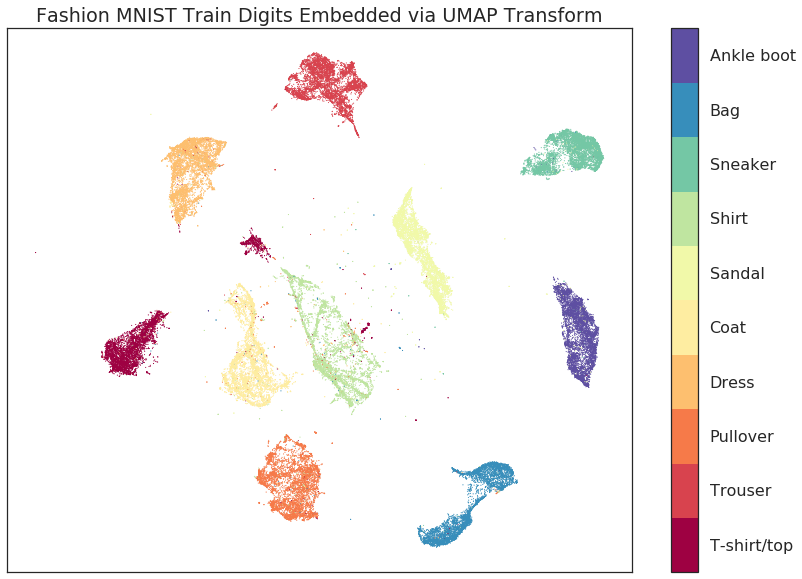
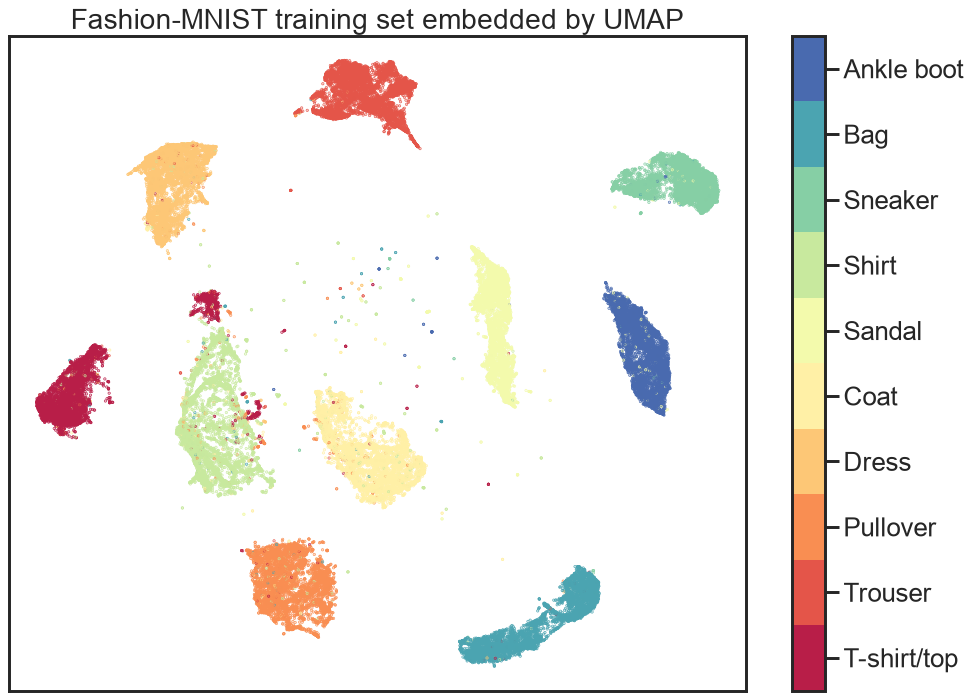
docs: correct the supervised Fashion-MNIST plots

Changed region(s): [[0.0, 0.0, 0.9975, 0.9948], [0.2494, 0.7461, 0.4052, 0.9326], [0.4676, 0.3109, 0.5611, 0.5907]]

diff --git a/doc/supervised.rst b/doc/supervised.rst
@@ -261,19 +261,13 @@ Fashion MNIST:
     test_data = np.array(test)
 
 Now we can fit a model to the training data, making use of the training
-labels to learn a supervised embedding.
+labels to learn a supervised embedding. Set a random seed so the example
+is reproducible.
 
 .. code:: python3
 
-    %%time
-    mapper = umap.UMAP(n_neighbors=10).fit(train_data, np.array(train_labels))
-
-
-.. parsed-literal::
-
-    CPU times: user 2min 18s, sys: 7.53 s, total: 2min 26s
-    Wall time: 1min 52s
-
+    mapper = umap.UMAP(n_neighbors=10, random_state=42, n_jobs=1)
+    mapper.fit(train_data, np.array(train_labels))
 
 Next we can use the :meth:`~umap.umap_.UMAP.transform` method on that model to transform the
 test set into the learned space. This time we won't pass the label
@@ -281,63 +275,53 @@ information and let the model attempt to place the data correctly.
 
 .. code:: python3
 
-    %%time
     test_embedding = mapper.transform(test_data)
 
-
-.. parsed-literal::
-
-    CPU times: user 17.3 s, sys: 986 ms, total: 18.3 s
-    Wall time: 15.4 s
-
-
-UMAP transforms are not as fast as some approaches, but as you can see
-this was still fairly efficient. The important question is how well we
-managed to embed the test data into the existing learned space. To start
-let's visualise the embedding of the training data so we can get a sense
-of where things *should* go.
+Plot both embeddings with the same axis limits and color scale to compare
+where the test points landed. Start with the training embedding.
 
 .. code:: python3
 
-    fig, ax = plt.subplots(1, figsize=(14, 10))
-    plt.scatter(*mapper.embedding_.T, s=0.3, c=np.array(train_labels), cmap='Spectral', alpha=1.0)
-    plt.setp(ax, xticks=[], yticks=[])
-    cbar = plt.colorbar(boundaries=np.arange(11)-0.5)
-    cbar.set_ticks(np.arange(10))
-    cbar.set_ticklabels(classes)
-    plt.title('Fashion MNIST Train Digits Embedded via UMAP Transform');
+    lower = np.minimum(mapper.embedding_.min(axis=0), test_embedding.min(axis=0))
+    upper = np.maximum(mapper.embedding_.max(axis=0), test_embedding.max(axis=0))
+    padding = 0.04 * (upper - lower)
 
+    def plot_embedding(embedding, labels, title, marker_size):
+        fig, ax = plt.subplots(figsize=(14, 10))
+        scatter = ax.scatter(
+            *embedding.T, s=marker_size, c=labels, cmap="Spectral", vmin=-0.5, vmax=9.5
+        )
+        ax.set(
+            xlim=(lower[0] - padding[0], upper[0] + padding[0]),
+            ylim=(lower[1] - padding[1], upper[1] + padding[1]),
+            xticks=[], yticks=[], title=title,
+        )
+        cbar = fig.colorbar(scatter, boundaries=np.arange(11) - 0.5, ticks=np.arange(10))
+        cbar.set_ticklabels(classes)
 
+    plot_embedding(
+        mapper.embedding_, train_labels, "Fashion-MNIST training set embedded by UMAP", 0.3
+    )
 
 .. image:: images/SupervisedUMAP_31_0.png
+   :alt: UMAP embedding fitted on the Fashion-MNIST training set, colored by clothing class.
 
-
-As you can see this has done a similar job as before, successfully
-embedding the separate classes while retaining both the internal
-structure and the overall global structure. We can now look at how the
-test set, for which we provided no label information, was embedded via
-the :meth:`~umap.umap_.UMAP.transform` method.
+Now plot the test embedding in the same space. Test labels are used here
+only to color the points in the figure.
 
 .. code:: python3
 
-    fig, ax = plt.subplots(1, figsize=(14, 10))
-    plt.scatter(*test_embedding.T, s=2, c=np.array(test_labels), cmap='Spectral', alpha=1.0)
-    plt.setp(ax, xticks=[], yticks=[])
-    cbar = plt.colorbar(boundaries=np.arange(11)-0.5)
-    cbar.set_ticks(np.arange(10))
-    cbar.set_ticklabels(classes)
-    plt.title('Fashion MNIST Test Digits Embedded via UMAP');
-
-
+    plot_embedding(
+        test_embedding, test_labels, "Fashion-MNIST test set embedded via UMAP transform", 2
+    )
 
 .. image:: images/SupervisedUMAP_33_0.png
+   :alt: Held-out Fashion-MNIST test set transformed into the training embedding, colored by clothing class.
 
 
-As you can see we have replicated the layout of the training data,
-including much of the internal structure of the classes. For the most
-part assignment of new points follows the classes well. The greatest
-source of confusion are some t-shirts that ended up mixed with the
-shirts, and some pullovers which are confused with the coats. Given the
+Most test points fall near the corresponding training clusters. Some
+clothing classes, such as shirts and pullovers, show overlap in the
+transformed test set. Given the
 difficulty of the problem this is a good result, particularly when
 compared with current state-of-the-art approaches such as `siamese and
 triplet
